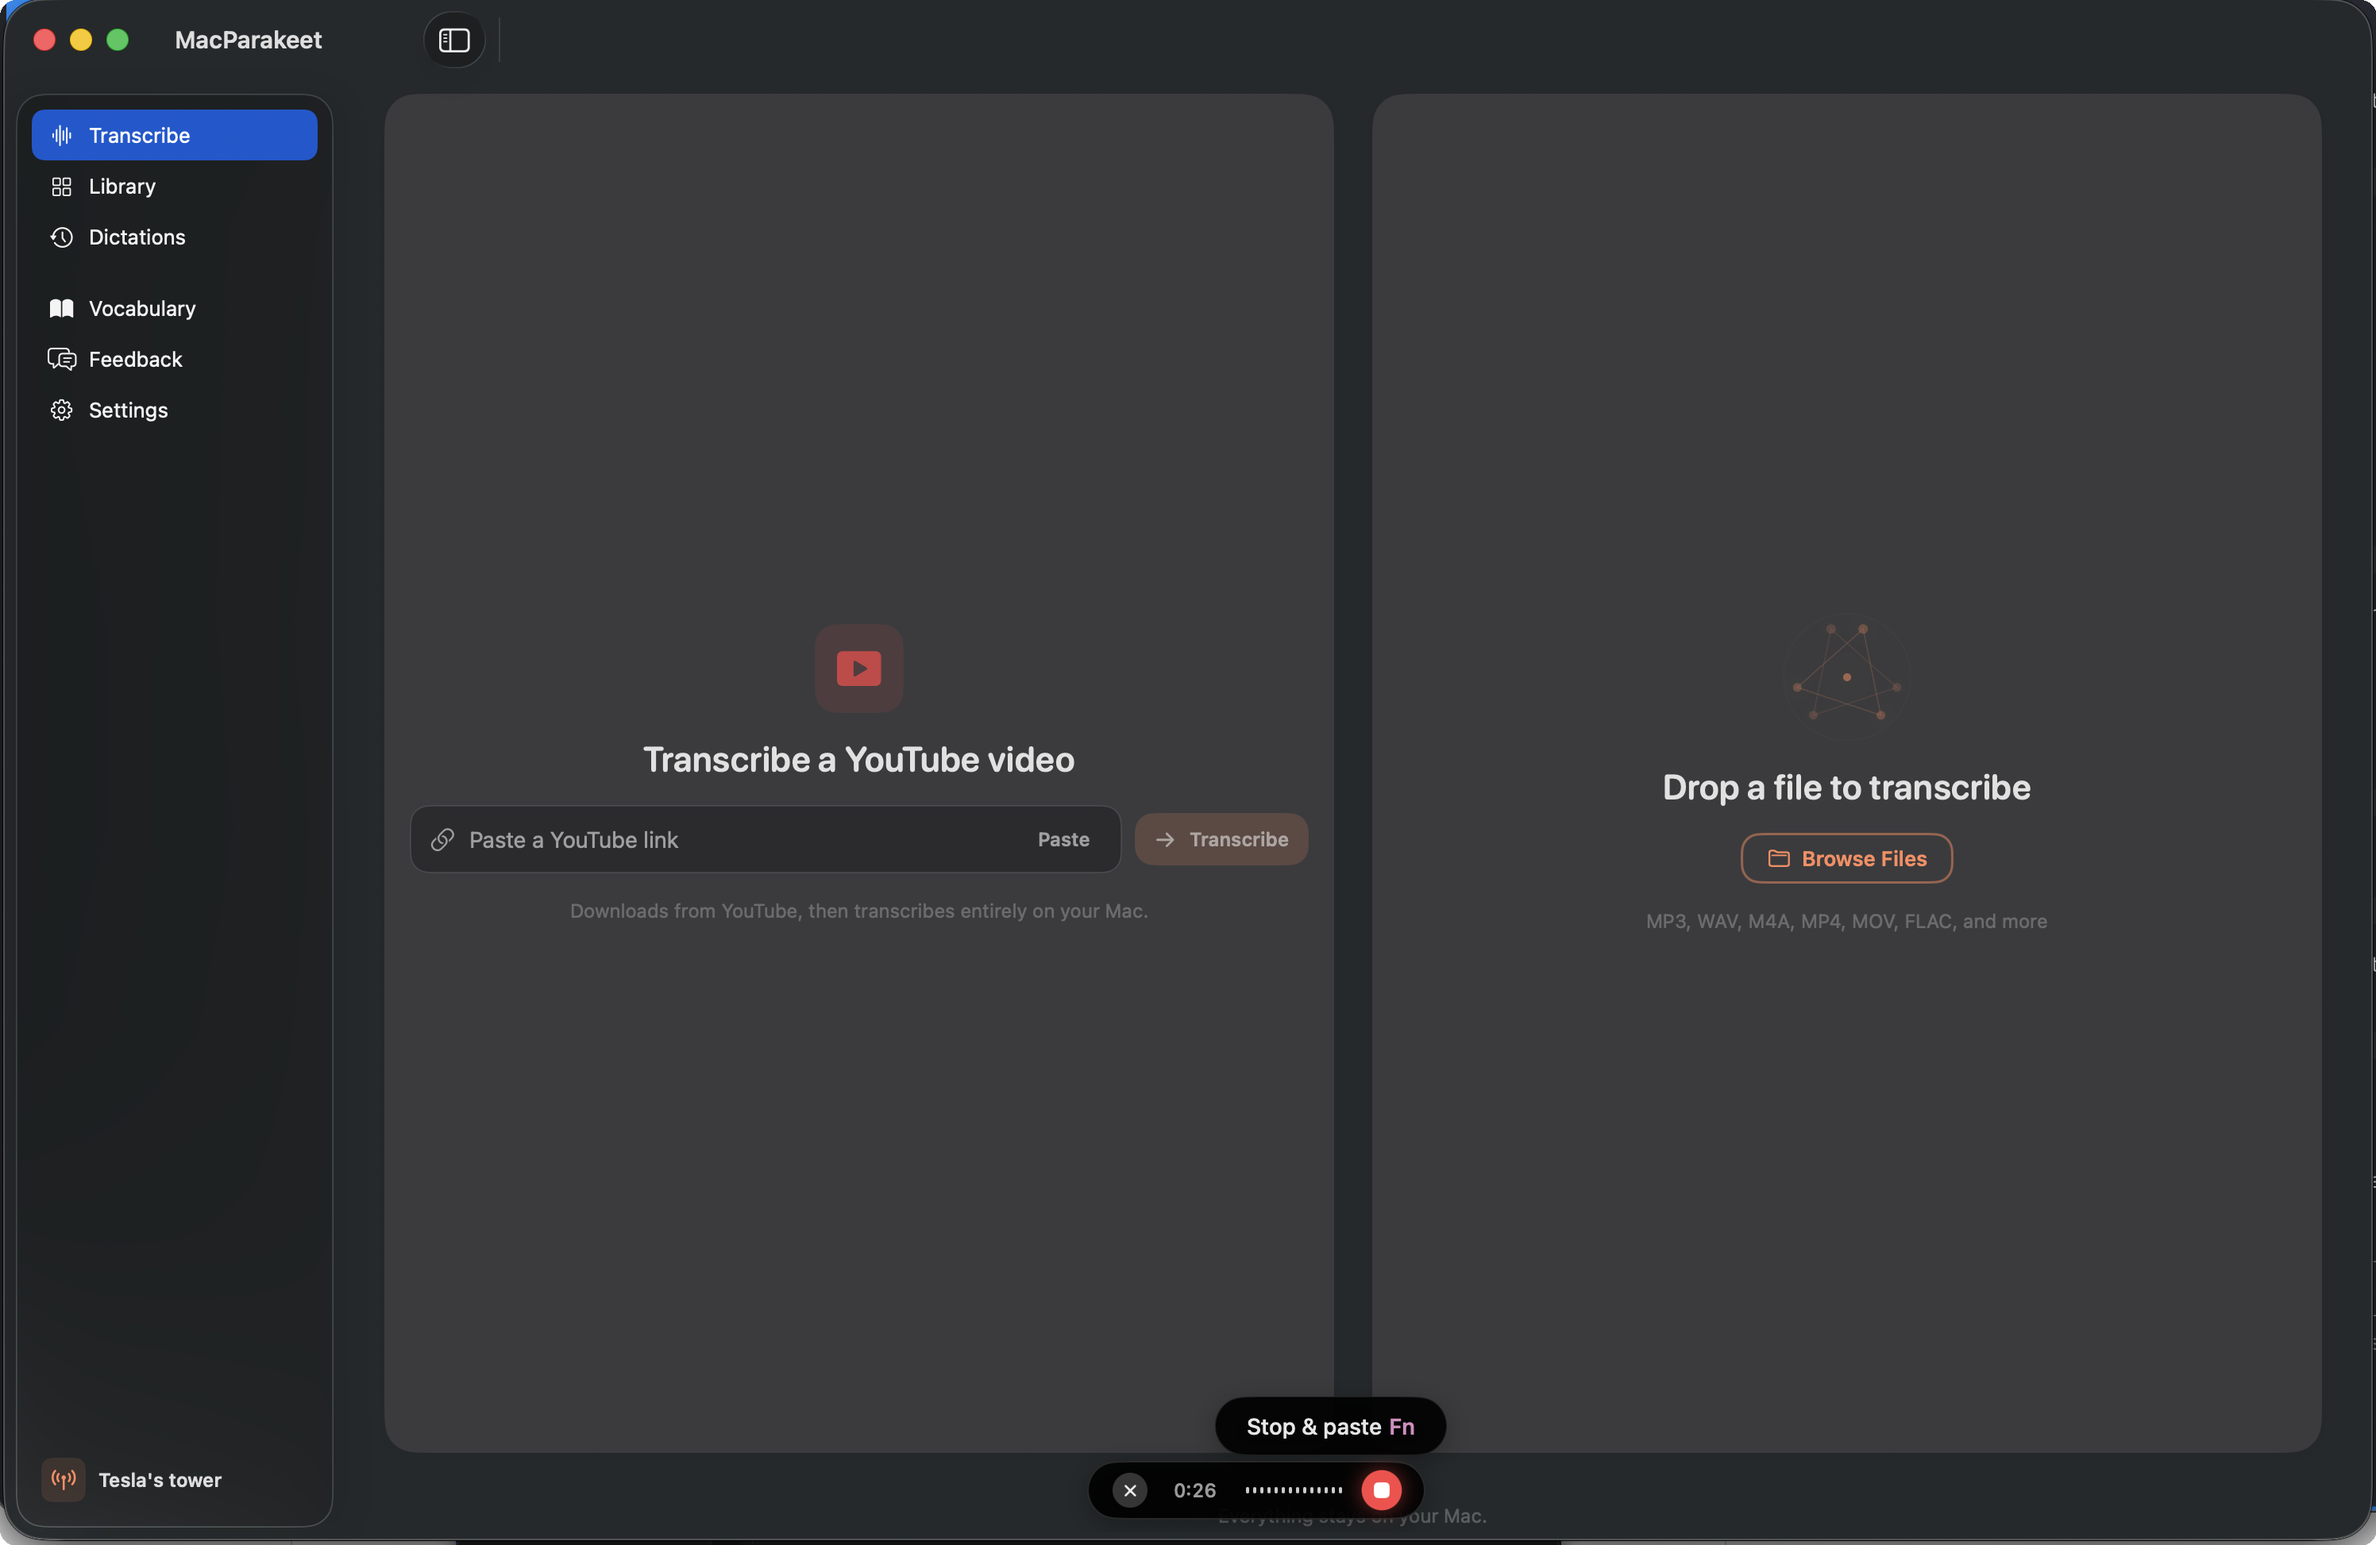
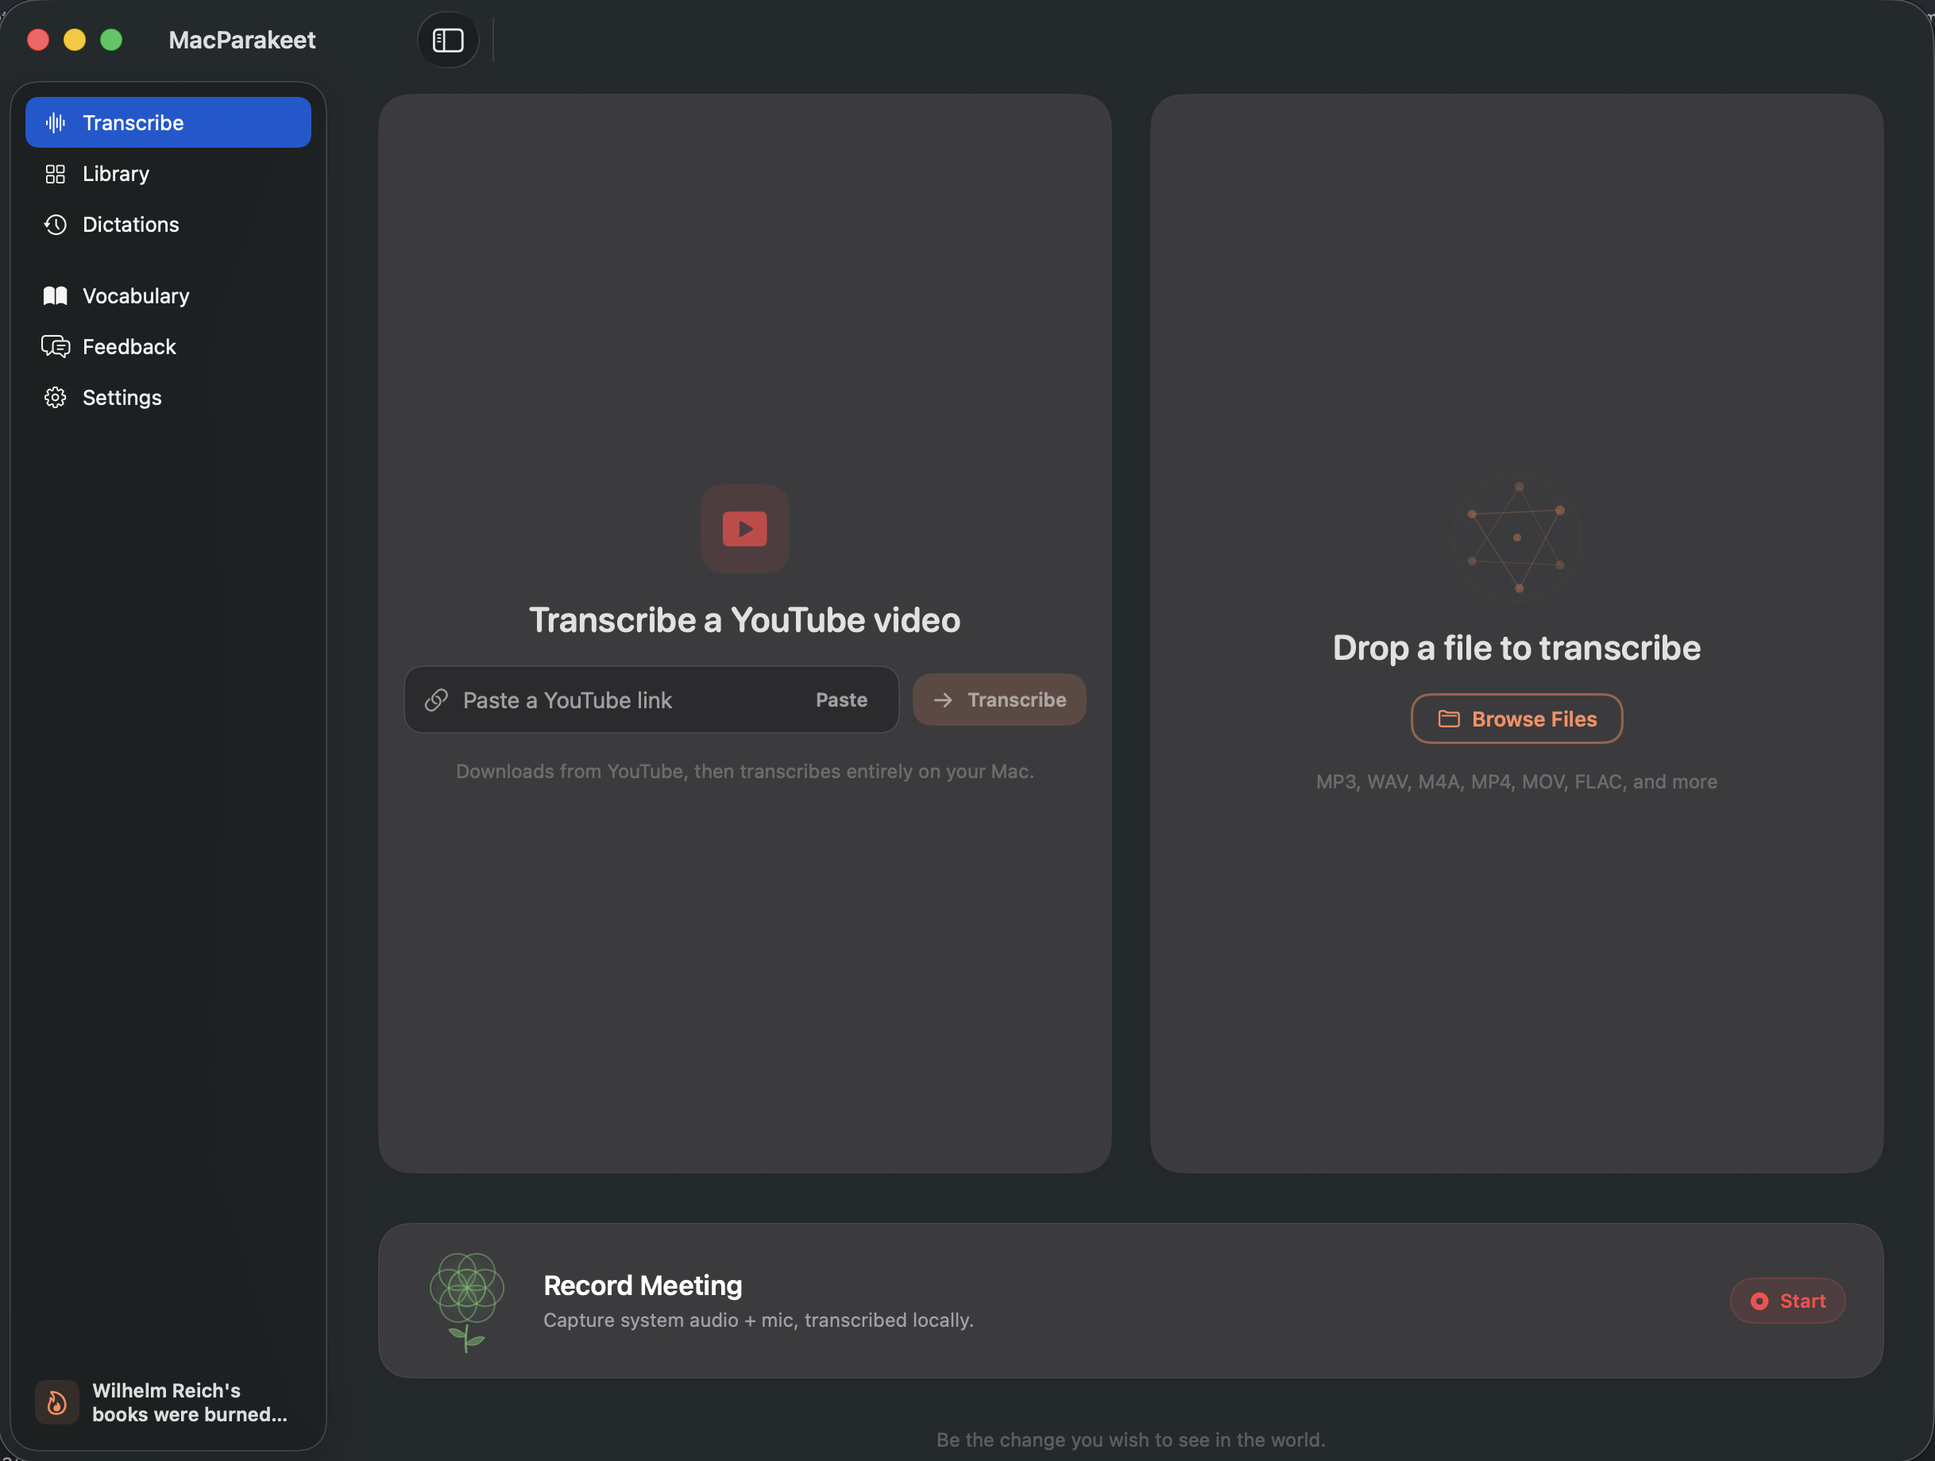
Refresh README screenshots for three-modes UI and Stats tab
transcribe.png now shows YouTube + file drop + Record Meeting tile
(three capture surfaces). dictations.png swapped from the old inline
stats layout to the new History/Stats tab with streak heatmap and
"Where you dictate" top-apps list. Cache-buster bumped to v=4.

diff --git a/README.md b/README.md
@@ -30,15 +30,15 @@
 </p>
 
 <p align="center">
-  <img src="Assets/screenshots/transcribe.png?v=3" width="720" alt="MacParakeet — Transcribe view with YouTube and file input">
+  <img src="Assets/screenshots/transcribe.png?v=4" width="720" alt="MacParakeet — Transcribe tab with YouTube, file drop, and Record Meeting tile">
 </p>
 
 <p align="center">
-  <img src="Assets/screenshots/library.png?v=3" width="720" alt="MacParakeet — Transcription library with thumbnails">
+  <img src="Assets/screenshots/library.png?v=4" width="720" alt="MacParakeet — Transcription library with thumbnails">
 </p>
 
 <p align="center">
-  <img src="Assets/screenshots/dictations.png?v=3" width="720" alt="MacParakeet — Dictation history and voice stats">
+  <img src="Assets/screenshots/dictations.png?v=4" width="720" alt="MacParakeet — Dictation Stats with streak heatmap and top apps">
 </p>
 
 ---
